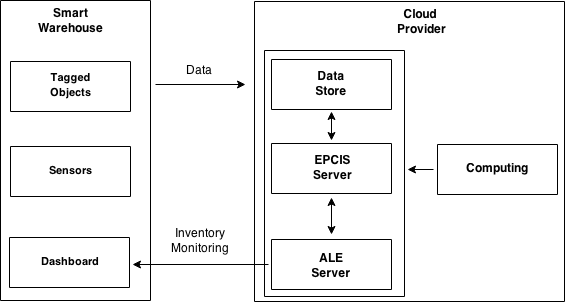
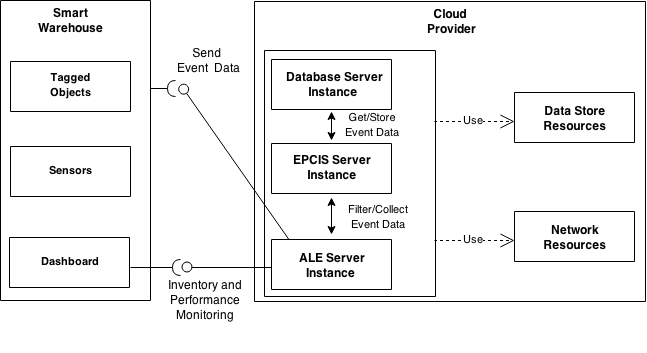
Add the logical architecture closes #22.

Changed region(s): [[0.0, 0.0, 1.0, 1.0], [0.0, 0.9738, 0.2703, 1.0], [0.3304, 0.3836, 0.3604, 0.4426]]

diff --git a/project_report/sections/solution_architecture.tex b/project_report/sections/solution_architecture.tex
@@ -51,7 +51,7 @@ as illustrated in Figure~\ref{fig:conceptual_architecture}.
 The business entities that composes Cloud4Things are the smart smart place and the
 Cloud provider. The smart place uses an Internet connection to access the resources
 that are allocated in the Cloud infrastructure. The Cloud providers allow the smart
-places to perform real-time monitoring of the used resources.
+places to perform real-time monitoring of the resources that are consumed.
 % ----------------------------------------------
 % LOGICAL ARCHITECTURE
 % ----------------------------------------------
@@ -67,11 +67,33 @@ entities and processes, as illustrated in Figure~\ref{fig:logical-architecture}.
   \caption{Cloud4Things Logical architecture.}
   \label{fig:logical_architecture}
   \end{figure}\\
+The smart place is composed by sensors and tagged objects. These sensors and tagged
+objects are the physical components of the IoT application that is running in the Cloud.
+The tagged objects produces events that are captured by the sensors and sent to the
+application in the Cloud.\\
+
+The Cloud provide computing resources (ex. Network Bandwith, Data Storage) that
+are used by the servers where the application is running. In the case of an IoT
+application that is based in the EPC Network standards, the application is composed
+by layers that are able to collect and filter the data from the sensors (ALE) through
+the network, to interpret and query (EPCIS) the filtered data from the ALE layer and
+to store persistently (Database) the capture data. Each one of these layers must
+be implemented by a different server in the Cloud.
 % ----------------------------------------------
 % TECHNOLOGICAL ARCHITECTURE
 % ----------------------------------------------
 \subsubsection{Technological Architecture}
 \label{subs:technological_architecture}
+The \textit{Technological} architecture describe Cloud4Things in perspective of the
+specific technologie that is used to implement the \textit{Logical} perspective, as
+illustrated in Figure~\ref{fig:technological_architecture}.
+% Cloud4Things technological architecture
+\begin{figure}
+  \centering
+  \includegraphics[width=.8\textwidth]{technological_architecture}
+  \caption{Cloud4Things Technological architecture}
+  \label{fig:technological_architecture}
+\end{figure}\\
 % ----------------------------------------------
 % MONITOR AGENT ARCHITECTURE
 % ----------------------------------------------

diff --git a/project_report/sections/introduction.tex b/project_report/sections/introduction.tex
@@ -136,8 +136,8 @@ These computational resources are provisioned on demand in a form of Virtual Mac
 deployed in a cloud provider data-center \cite{sotomayor2009virtual}. The Cloud can also
 be used to assist application design, development, application hosting and testing by providing
 a development platform, a service pattern is known as PaaS. Another pattern supported by
-Cloud Computing is SaaS. That allows that a single piece of software is transferred to millions
-of users through a browser \cite{zhang2010cloud}. This pattern is beneficial to both users
+Cloud Computing is SaaS. That allows that a single piece of software that are available
+to millions of users through a browser \cite{zhang2010cloud}. This pattern is beneficial to both users
 and developers. The developers only needs to maintain a single program while the users can
 save costs in servers and software.\\
 

diff --git a/project_report/project_report.tex b/project_report/project_report.tex
@@ -8,7 +8,7 @@
 \renewcommand*\l@author[2]{}
 \renewcommand*\l@title[2]{}
 \makeatletter
-\newcommand*\NewPage{\newpage\null\thispagestyle{empty}\newpage}
+\newcommand*\NewPage{\newpage\null\thispagestyle{empty}\cleardoublepage}
 % page numbering
 \pagestyle{plain}
 % change the spacing between the caption and the table
